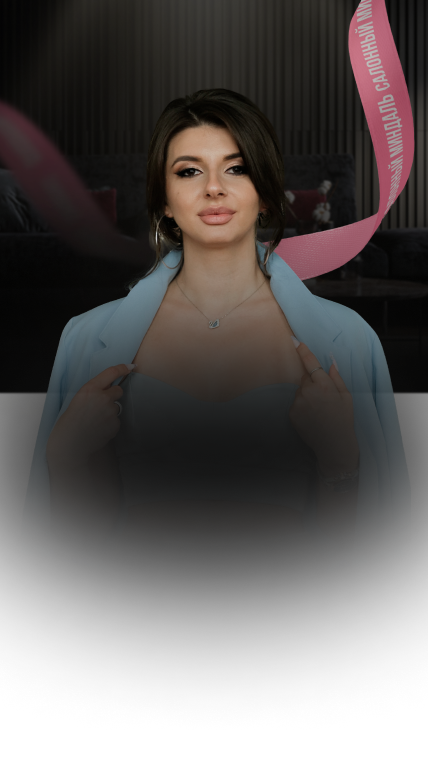
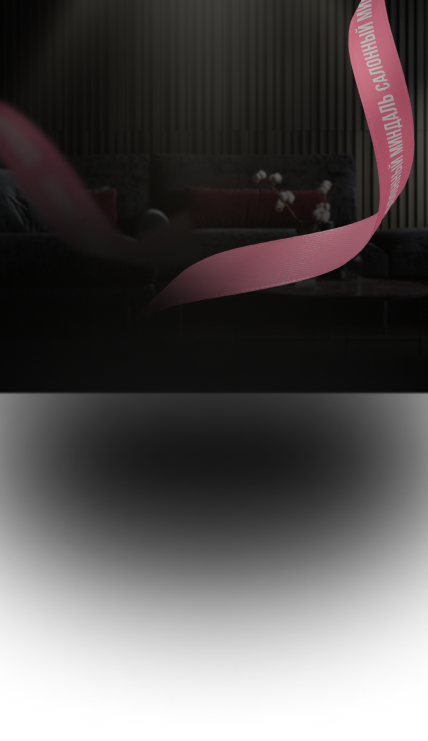
Add files via upload

Changed region(s): [[0.0, 0.0, 1.0, 0.5897], [0.0607, 0.7139, 0.9416, 0.8691]]

diff --git a/assets/css/main.css b/assets/css/main.css
@@ -19,16 +19,21 @@ body {
     background-color: #000000;
     color: white;
     margin: 0 auto;
-}
-.main {
     background-image: url(../images/back-image.png);
     background-repeat: no-repeat;
     background-position: top center;
+}
+.main {
+    background-image: url(../images/yuli-image.png);
+    background-repeat: no-repeat;
+    background-position: 50% 2%;
+    background-size: 428px 706px;
     overflow: hidden;
 }
 .container {
     max-width: 1170px;
     margin: 0 auto;
+    position: relative;
 }
 .none {
     display: none;
@@ -39,6 +44,7 @@ body {
     border: none;
     color: white;
     text-align: center;
+    text-transform: uppercase;
 }
 .start-course {
     color: white;
@@ -60,6 +66,7 @@ body {
     display: flex;
     max-width: 428px;
     margin: 0 auto;
+    position: relative;
 }
 .start-number {
     position: absolute;
@@ -115,9 +122,10 @@ body {
 
 
 .lang-bar {
-    max-width: 300px;
-    margin: 0 auto; 
-    position: relative;
+    width: 50px;
+    position: absolute;
+    left: 70px;
+    top: 96px;
 }
 .lang-bar select {
     background-color: transparent;
@@ -143,7 +151,7 @@ body {
     position: absolute;
     transform: rotate(90deg);
     top: -8px;
-    left: 7px;
+    left: 20px;
     width: 10%;
     height: 100%;
     text-align: center;
@@ -165,7 +173,7 @@ body {
     flex-direction: column;
     justify-content: flex-end;
     align-items: center;
-    background-image: url(../images/);
+    flex-wrap: wrap;
 }
 .hero .instagram {
     height: 61px;
@@ -315,6 +323,7 @@ body {
     background-color: #FF7898;
     display: block;
     margin: 0 auto;
+    text-transform:none;
 }
 
 /* --- salon wrapper --- */
@@ -377,7 +386,7 @@ body {
 }
 .salon-btn {
     background-color: #FF7898;
-    padding: 26px 39px;
+    padding: 23px 39px 28px;
     border-radius: 9px;
     display: block;
     margin: 29px auto 0;
@@ -565,6 +574,7 @@ body {
     position: relative;
     top: -120px;
     margin: 0 auto;
+    text-transform: uppercase;
 }
 .help-icon {
     background-color: #FF7898;
@@ -675,7 +685,7 @@ body {
     font-family: 'Bebas Neue';
 }
 .cost-btn {
-    padding: 25px 40px;
+    padding: 23px 40px 28px;
     border-radius: 10px;
     background-color: #FF7898;
     align-items: center;
@@ -729,7 +739,7 @@ body {
 .swiper-slide {
     width: 337px !important;
     border: 9px;
-    left: 5px;
+    left: 10px;
 }
 .swiper-button-prev, .swiper-button-next {
     width: 56px;

diff --git a/index.html b/index.html
@@ -38,12 +38,12 @@
                         <p class="format-title lng-format">Формат:</p>
                         <p class="format-subtitle lng-online">online</p>
                     </div>
-                </div>
-                <div class="lang-bar">
-                    <select name="lang-menu" id="">
-                        <option value="ru">RU</option>
-                        <option value="ua" selected>UA</option>
-                    </select>
+                    <div class="lang-bar">
+                        <select name="lang-menu" id="">
+                            <option value="ru">RU</option>
+                            <option value="ua" selectedx`>UA</option>
+                        </select>
+                    </div>
                 </div>
             </div>
         </section>
@@ -101,7 +101,7 @@
                         <div class="access">
                             <img src="./assets/icons/polygon-svg.svg" alt="" width="110px" height="110px">
                             <p class="salon-desc-title lng-entry">Доступ к курсу:</p>
-                            <p class="salon-desc-subtitle lng-days">60 дней</p>
+                            <p class="salon-desc-subtitle lng-salonDays">60 дней</p>
                         </div>
                     </div>
                     <button class="button salon-btn lng-salonBtn"><img src="./assets/icons/touch-screen.png" alt="" color="white"></button>

diff --git a/assets/js/lang.js b/assets/js/lang.js
@@ -59,6 +59,10 @@ const langArr = {
         ru: 'Доступ к курсу:',
         ua: 'Доступ до курсу:',
     },
+    salonDays: {
+        ru: '60 дней',
+        ua: '60 днів',
+    },
     salonBtn: {
         ru: 'ПРИНЯТЬ УЧАСТИЕ <img src="./assets/icons/touch-screen.png" alt="" width="17px" height="17px" color="white">',
         ua: 'Прийняти участь <img src="./assets/icons/touch-screen.png" alt="" width="17px" height="17px">',
